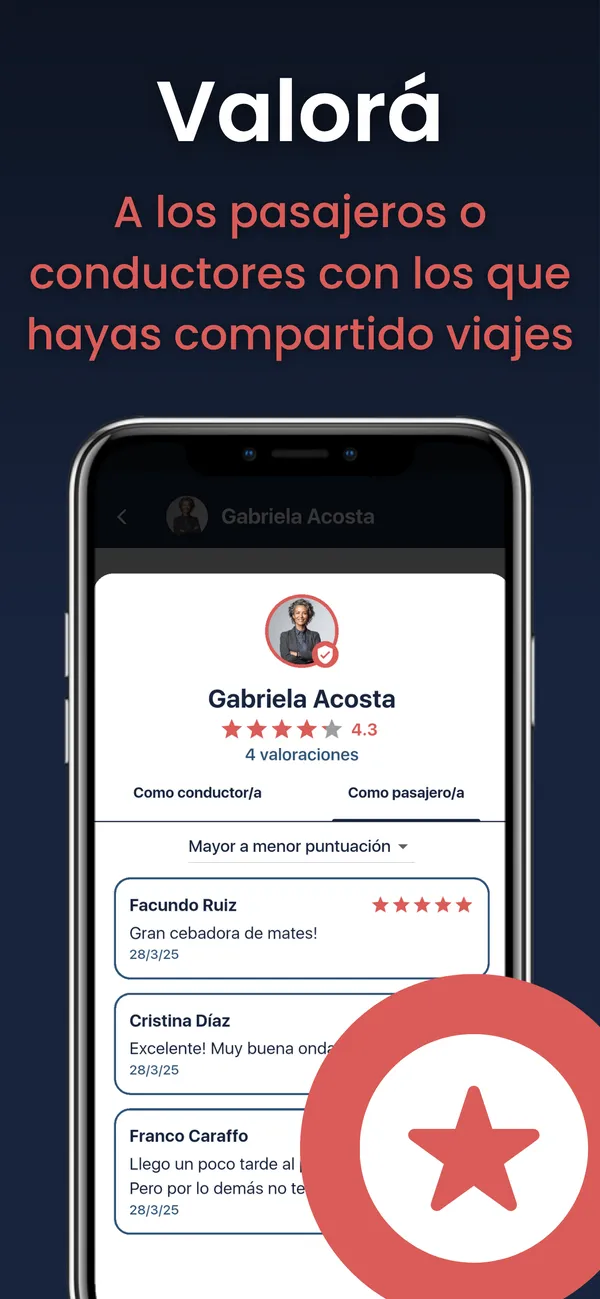
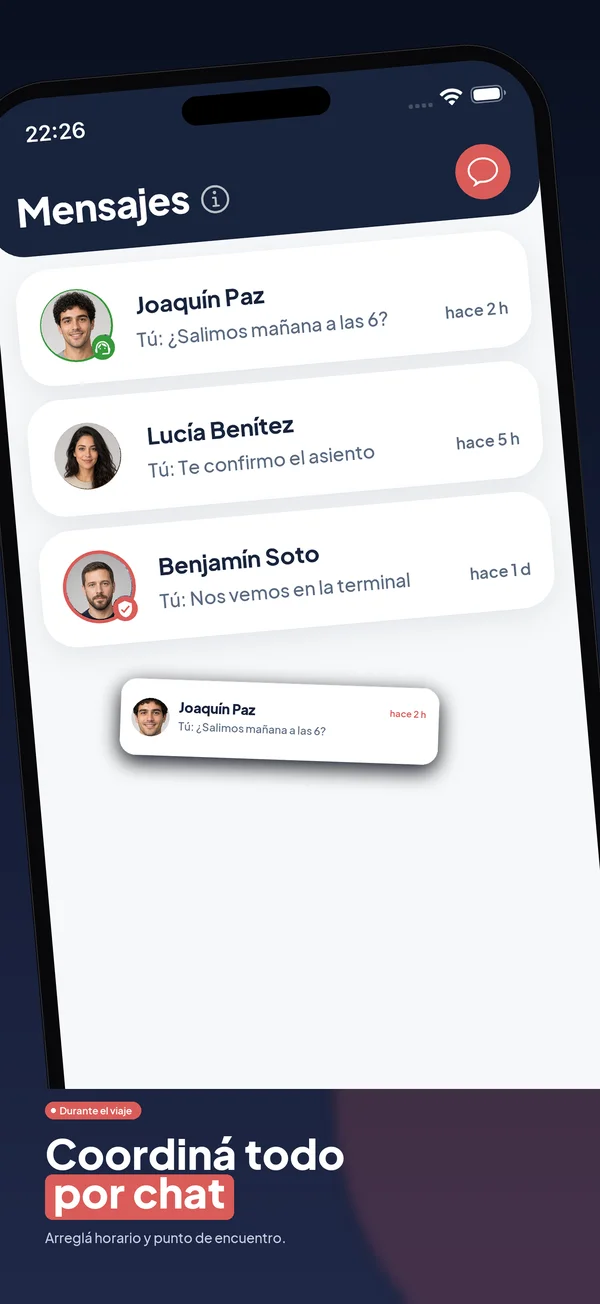
feat: mockups de la landing con las capturas actuales de la app

diff --git a/index.html b/index.html
@@ -79,20 +79,20 @@
                     <div class="hero-image" data-reveal>
                         <div class="hero-disc" aria-hidden="true"></div>
                         <div class="float-card float-card--top" aria-hidden="true">
-                            <span class="icon-tile icon-tile--green"><i class="fas fa-check"></i></span>
-                            <span><strong>¡Viaje publicado!</strong><small>Ya está visible para pasajeros</small></span>
+                            <span class="icon-tile icon-tile--navy"><i class="fas fa-magnifying-glass"></i></span>
+                            <span><strong>Buscá tu viaje</strong><small>Filtrá por fecha y horario</small></span>
                         </div>
                         <div class="phone-mockup" id="phone-mockup">
-                            <img src="images/1.webp" alt="Publicar viajes en Viajapp" class="phone-screen" style="--i:0" width="600" height="1298" fetchpriority="high" decoding="async">
-                            <img src="images/2.webp" alt="Buscar viajes en Viajapp" class="phone-screen" style="--i:1" width="600" height="1298" loading="lazy" decoding="async">
-                            <img src="images/3.webp" alt="Explorar viajes cercanos en Viajapp" class="phone-screen" style="--i:2" width="600" height="1298" loading="lazy" decoding="async">
-                            <img src="images/4.webp" alt="Reservar viajes en Viajapp" class="phone-screen" style="--i:3" width="600" height="1298" loading="lazy" decoding="async">
-                            <img src="images/5.webp" alt="Chatear con conductores en Viajapp" class="phone-screen" style="--i:4" width="600" height="1298" loading="lazy" decoding="async">
-                            <img src="images/6.webp" alt="Valorar viajes en Viajapp" class="phone-screen" style="--i:5" width="600" height="1298" loading="lazy" decoding="async">
+                            <img src="images/1.webp" alt="Inicio de Viajapp para encontrar tu próximo viaje" class="phone-screen" style="--i:0" width="600" height="1304" fetchpriority="high" decoding="async">
+                            <img src="images/2.webp" alt="Explorar viajes cercanos en Viajapp" class="phone-screen" style="--i:1" width="600" height="1304" loading="lazy" decoding="async">
+                            <img src="images/3.webp" alt="Detalle de un viaje para reservar tu asiento" class="phone-screen" style="--i:2" width="600" height="1304" loading="lazy" decoding="async">
+                            <img src="images/4.webp" alt="Pagar la reserva con Mercado Pago en Viajapp" class="phone-screen" style="--i:3" width="600" height="1304" loading="lazy" decoding="async">
+                            <img src="images/5.webp" alt="Publicar un viaje en Viajapp" class="phone-screen" style="--i:4" width="600" height="1304" loading="lazy" decoding="async">
+                            <img src="images/6.webp" alt="Chatear con conductores y pasajeros en Viajapp" class="phone-screen" style="--i:5" width="600" height="1304" loading="lazy" decoding="async">
                         </div>
                         <div class="float-card float-card--bottom" aria-hidden="true">
-                            <span class="icon-tile"><i class="fas fa-star"></i></span>
-                            <span><strong>Valoraciones reales</strong><small>Después de cada viaje</small></span>
+                            <span class="icon-tile"><i class="fas fa-box"></i></span>
+                            <span><strong>También paquetes</strong><small>Enviá con quien ya viaja</small></span>
                         </div>
                     </div>
                 </div>
@@ -209,7 +209,7 @@
                     </div>
                     <div class="benefits-image" data-reveal>
                         <div class="phone-frame">
-                            <img src="images/2.webp" alt="Buscar viajes en Viajapp" width="600" height="1298" loading="lazy" decoding="async">
+                            <img src="images/2.webp" alt="Explorar viajes cercanos en Viajapp" width="600" height="1304" loading="lazy" decoding="async">
                         </div>
                     </div>
                 </div>

diff --git a/script.js b/script.js
@@ -99,18 +99,18 @@
 
   /** Messages of the two floating cards for each phone screen, in screen order. */
   const FLOAT_CARD_MESSAGES = [
-    [['green', 'fa-check', '¡Viaje publicado!', 'Ya está visible para pasajeros'],
-      ['coral', 'fa-hand-holding-dollar', 'Compartí gastos', 'Vos ponés el precio por asiento']],
     [['navy', 'fa-magnifying-glass', 'Buscá tu viaje', 'Filtrá por fecha y horario'],
       ['coral', 'fa-box', 'También paquetes', 'Enviá con quien ya viaja']],
     [['navy', 'fa-location-dot', 'Cerca tuyo', 'Viajes según tu ubicación'],
       ['coral', 'fa-bell', 'Dejá un aviso', 'Te avisamos cuando aparezca uno']],
+    [['green', 'fa-user-check', 'Conductor verificado', 'Identidad validada con Nosis'],
+      ['coral', 'fa-star', 'Valoraciones reales', 'Después de cada viaje']],
     [['green', 'fa-circle-check', '¡Reserva enviada!', 'Pagaste con Mercado Pago'],
       ['coral', 'fa-rotate-left', 'Sin riesgo', 'Si te rechazan, se devuelve']],
+    [['green', 'fa-check', '¡Viaje publicado!', 'Ya está visible para pasajeros'],
+      ['coral', 'fa-hand-holding-dollar', 'Compartí gastos', 'Vos ponés el precio por asiento']],
     [['navy', 'fa-comment', 'Nuevo mensaje', '¿Nos vemos en la terminal?'],
       ['coral', 'fa-location-arrow', 'Ubicación en vivo', 'Compartila durante el viaje']],
-    [['green', 'fa-flag-checkered', '¡Llegaste!', 'Contanos cómo fue el viaje'],
-      ['coral', 'fa-star', 'Valoraciones reales', 'Después de cada viaje']],
   ];
 
   /** Swaps the floating cards' content each time a phone screen fades in. */

diff --git a/css/sections/hero.css b/css/sections/hero.css
@@ -82,7 +82,7 @@
 .phone-mockup {
     position: relative;
     width: 290px;
-    aspect-ratio: 1242 / 2688;
+    aspect-ratio: 1320 / 2868;
     border-radius: 44px;
     padding: 10px;
     background: #0E1628;
